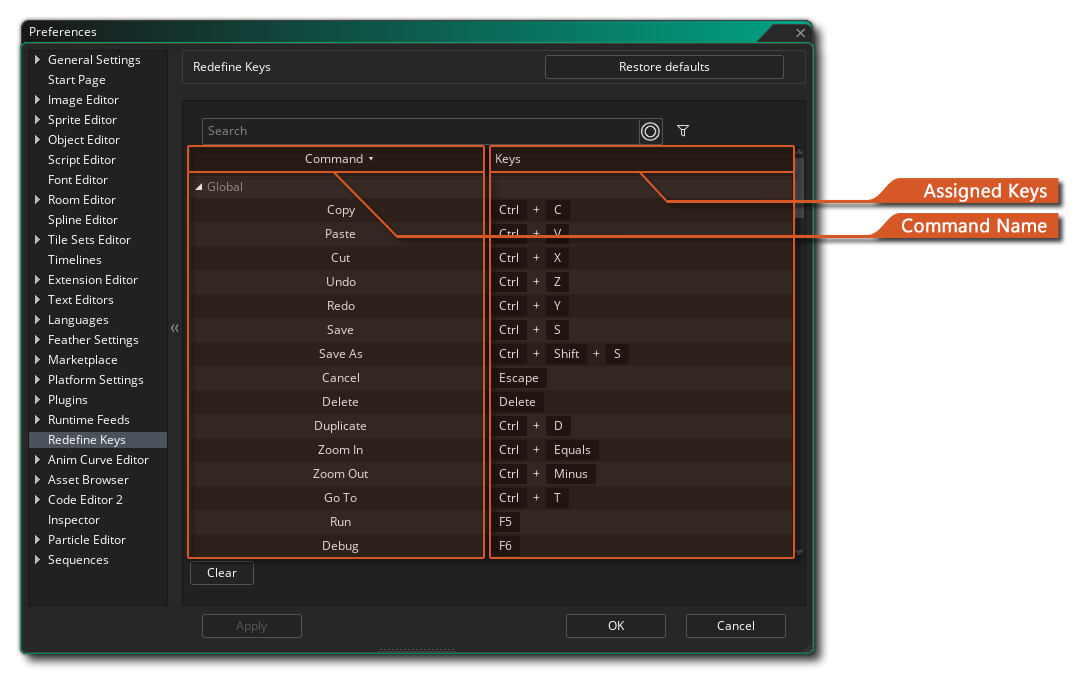
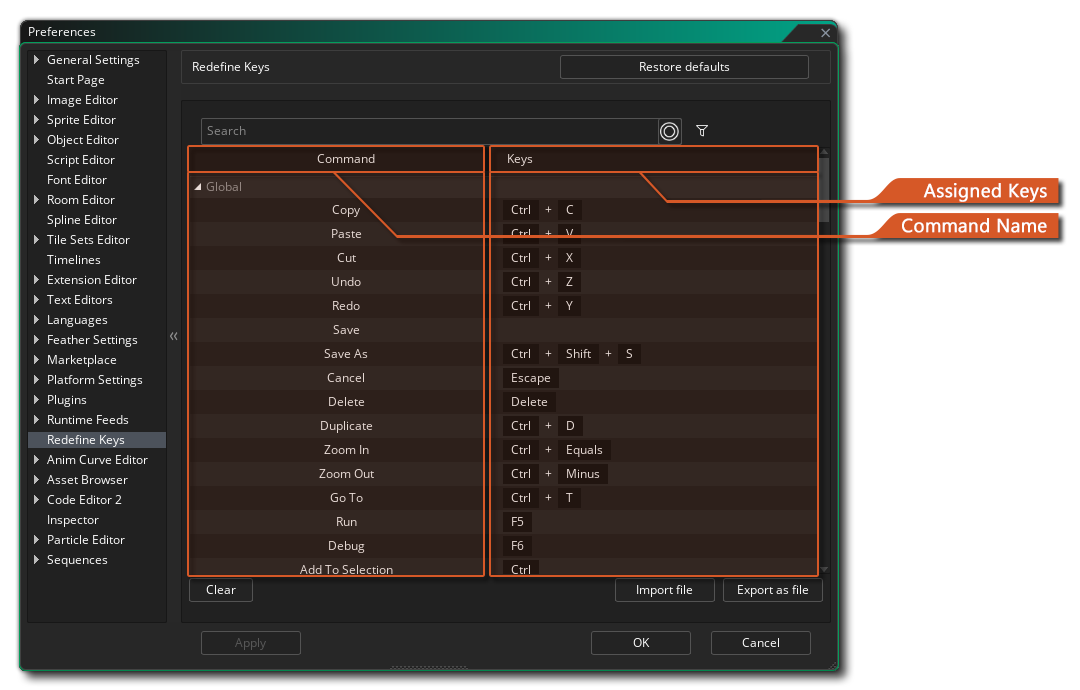
docs(feature): Redefine Keys: Add Save/Load functionality for saving out user remaps YoYoGames/GameMaker-Bugs#4838
* Updated screenhots on the page and added a section "Loading and Saving User Remaps"
* Added warning note that explains that current remaps are overwritten (and so are lost)

Changed region(s): [[0.0, 0.0, 1.0, 0.997], [0.5194, 0.6231, 0.55, 0.7166], [0.5194, 0.4985, 0.55, 0.5297]]

diff --git a/Manual/contents/Setting_Up_And_Version_Information/IDE_Preferences/Redefine_Keys_Preferences.htm b/Manual/contents/Setting_Up_And_Version_Information/IDE_Preferences/Redefine_Keys_Preferences.htm
@@ -64,7 +64,11 @@
   <h2>Clearing Commands</h2>
   <p>Double-clicking on an existing key combination will allow you to change it, however while you are doing this you can click on the <strong>&quot;Clear&quot;</strong> button below the Command List to clear the binding for that command.</p>
   <p><img class="center" src="../../assets/Images/Setup_And_Version/Preferences/Redefine_Clear_Button.png" />If you have accidentally overridden some keyboard shortcuts and wish to reset them back to their default settings, you can click on the &quot;Restore defaults&quot; button at the top of the Preferences window to reset all commands to their default mappings, or check the <a data-xref="{title}" href="../../IDE_Navigation/Keyboard_Shortcuts.htm">Keyboard Shortcuts</a> page to check the default bindings and revert your commands manually.</p>
-  <p> </p>
+  <h2>Loading and Saving User Remaps</h2>
+  <p>The <strong>Import file</strong> and <strong>Export as file</strong> buttons at the bottom allow you to import and export remaps of keys. This can be used to transfer your remapped keys to a different <span data-keyref="GameMaker Name">GameMaker</span> build (i.e. monthly, LTS or beta) or to a different machine.</p>
+  <p>Click <strong>Export as file</strong> to bring up a file dialog that prompts you for the location to save the file to.</p>
+  <p>Click <strong>Import file</strong> to load a previously exported remaps file and use them in the current <span data-keyref="GameMaker Name">GameMaker</span> build on the current machine.</p>
+  <p class="note"><span data-conref="../../assets/snippets/Tag_warning.hts"> </span> Any existing remaps will be lost if you import remaps from a file.</p>
   <p> </p>
   <p> </p>
   <div class="footer">
